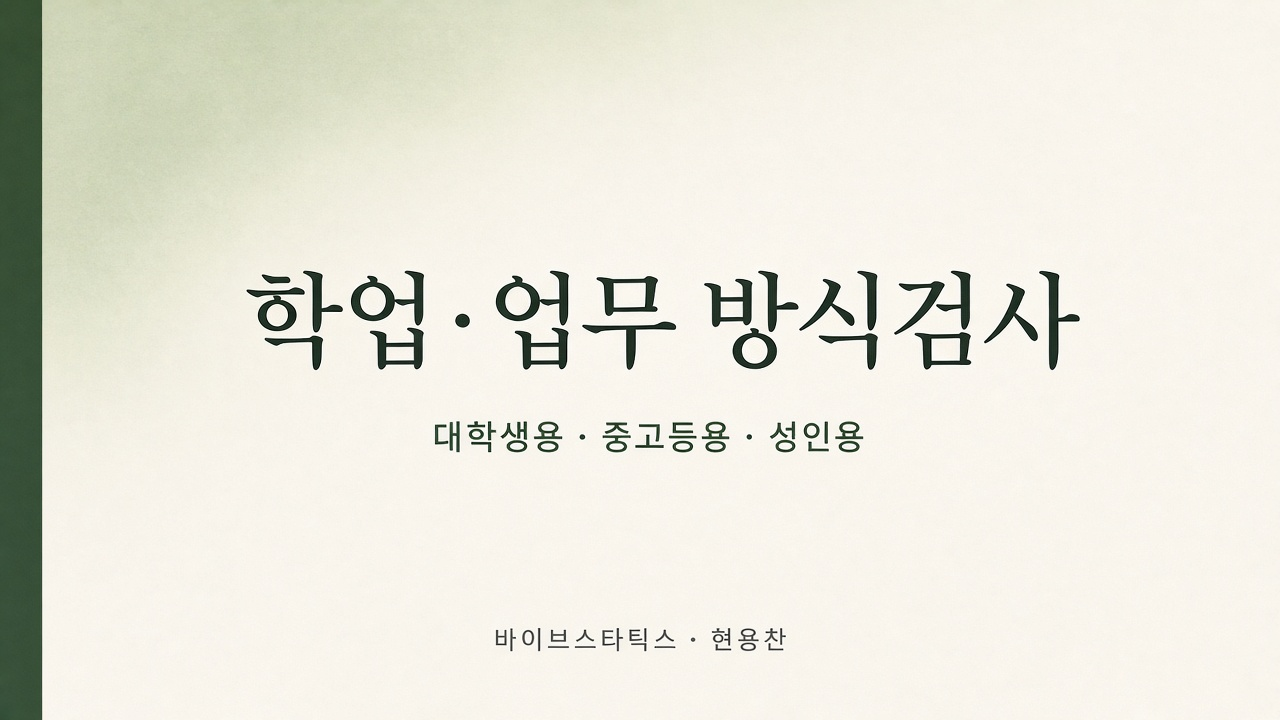
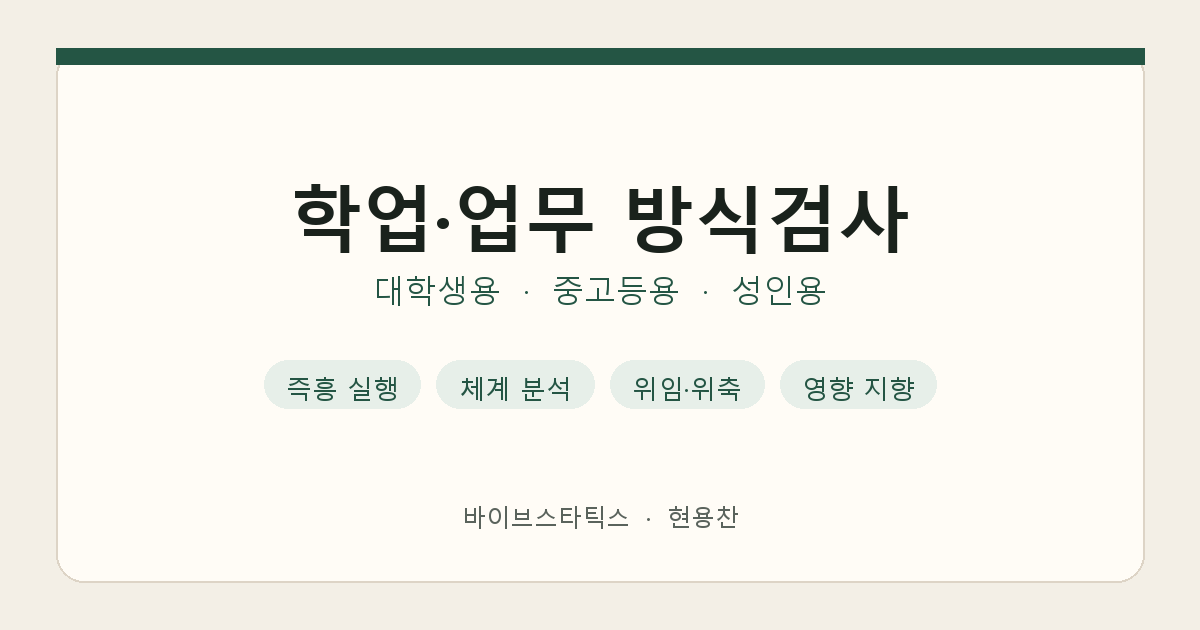
카톡 미리보기 그림을 사이트와 같은 카드 화면으로 다시 그립니다.

diff --git a/index.html b/index.html
@@ -24,9 +24,10 @@
       property="og:description"
       content="공부와 일의 방식을 네 축으로 확인합니다. 대학생용·중고등용·성인용. 교육학 박사 현용찬 · 바이브스타틱스."
     />
-    <meta property="og:image" content="https://aop.vibestatics.com/og.png" />
+    <meta property="og:image" content="https://aop.vibestatics.com/og.png?v=2" />
     <meta property="og:image:width" content="1200" />
-    <meta property="og:image:height" content="675" />
+    <meta property="og:image:height" content="630" />
+    <meta property="og:image:alt" content="학업·업무 방식검사" />
 
     <meta name="twitter:card" content="summary_large_image" />
     <meta name="twitter:title" content="학업·업무 방식검사" />
@@ -34,7 +35,7 @@
       name="twitter:description"
       content="공부와 일의 방식을 네 축으로 확인합니다. 대학생용·중고등용·성인용."
     />
-    <meta name="twitter:image" content="https://aop.vibestatics.com/og.png" />
+    <meta name="twitter:image" content="https://aop.vibestatics.com/og.png?v=2" />
 
     <script type="application/ld+json">
       {
@@ -58,11 +59,11 @@
       rel="stylesheet"
     />
     <meta http-equiv="Cache-Control" content="no-cache, no-store, must-revalidate" />
-    <link rel="stylesheet" href="./styles.css?v=20260907h" />
+    <link rel="stylesheet" href="./styles.css?v=20260907i" />
   </head>
   <body>
     <div id="root"></div>
-    <script src="./config.js?v=20260907h"></script>
-    <script type="module" src="./js/app.js?v=20260907h"></script>
+    <script src="./config.js?v=20260907i"></script>
+    <script type="module" src="./js/app.js?v=20260907i"></script>
   </body>
 </html>
